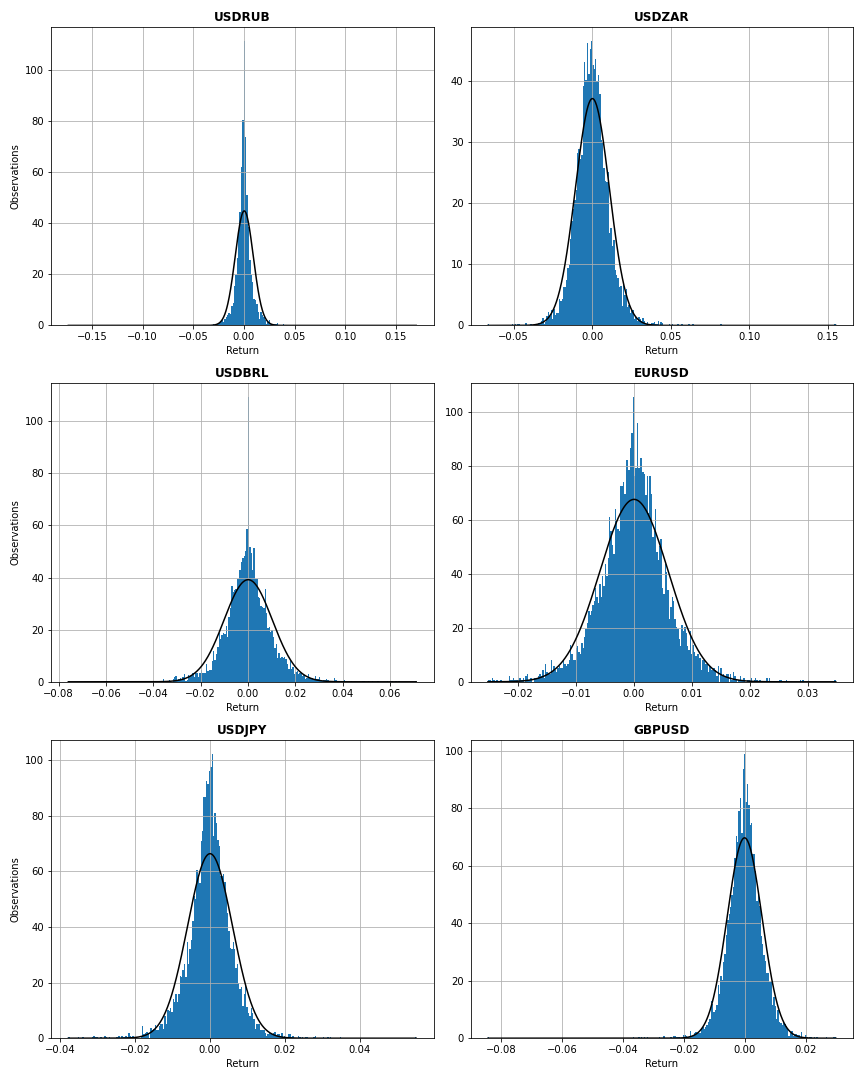
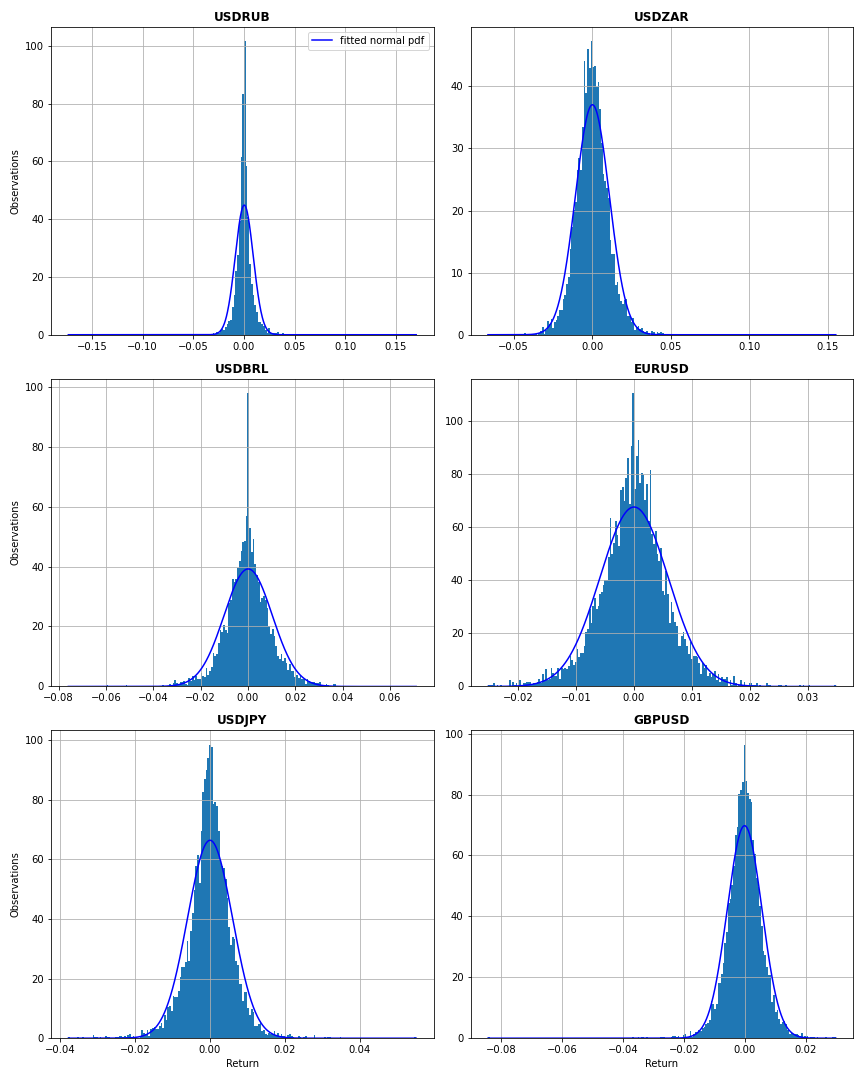
..

diff --git a/utils/plots.py b/utils/plots.py
@@ -1,3 +1,4 @@
+from cProfile import label
 import math
 import numpy as np
 import pandas as pd
@@ -97,7 +98,7 @@ def plot_grid(df_dict:dict, series:str = Literal['log_ret','v1m','v3m','v1y'], c
 
 
 
-# plot return distribution grid over fx pairs
+# plot return distribution grid over fx pairs (super inefficient)
 def plot_return_distribution(df_dict:dict, bins: int = 50, cols:int = 2):
     # determine number of rows, given the number of columns
     rows = math.ceil(len(df_dict.keys()) / cols)
@@ -119,16 +120,24 @@ def plot_return_distribution(df_dict:dict, bins: int = 50, cols:int = 2):
         ax = ax_array[idx]
         df = df_dict[key].dropna()
         df['log_ret'].hist(bins=bins, ax=ax, density=True)
-        ax.set_xlabel('Return')
+
+        # fit pdf 
+        xmin, xmax = df['log_ret'].min(), df['log_ret'].max()
+        x = np.linspace(xmin, xmax, 1000)
+        ## norm
+        mu, std = stats.norm.fit(df['log_ret']) 
+        norm_dist = stats.norm.pdf(x, mu, std)
+        ax.plot(x, norm_dist, 'b', linewidth=1.5, label = 'fitted normal pdf')
+        ## student t
+        #degrees_of_freedom, loc, scale = stats.t.fit(df['log_ret']) 
+        #student_dist = stats.t.pdf(x, loc, scale)
+        #ax.plot(x, student_dist, 'r', linewidth=1.5, label = f"fitted students-t pdf (df={degrees_of_freedom:.1f})")
+        
+        # formating
+        if idx in [4,5]: ax.set_xlabel('Return')
+        if idx == 0: ax.legend()
         if idx in [0,2,4]: ax.set_ylabel('Observations')
         ax.set_title(key, fontweight='bold')
-
-        # fit normal distribution
-        xmin, xmax = df['log_ret'].min(), df['log_ret'].max()
-        mu, std = stats.norm.fit(df['log_ret']) 
-        x = np.linspace(xmin, xmax, 1000)
-        p = stats.norm.pdf(x, mu, std)
-        ax.plot(x, p, 'k', linewidth=1.5)
 
     # last formating
     fig.set_facecolor('w')
